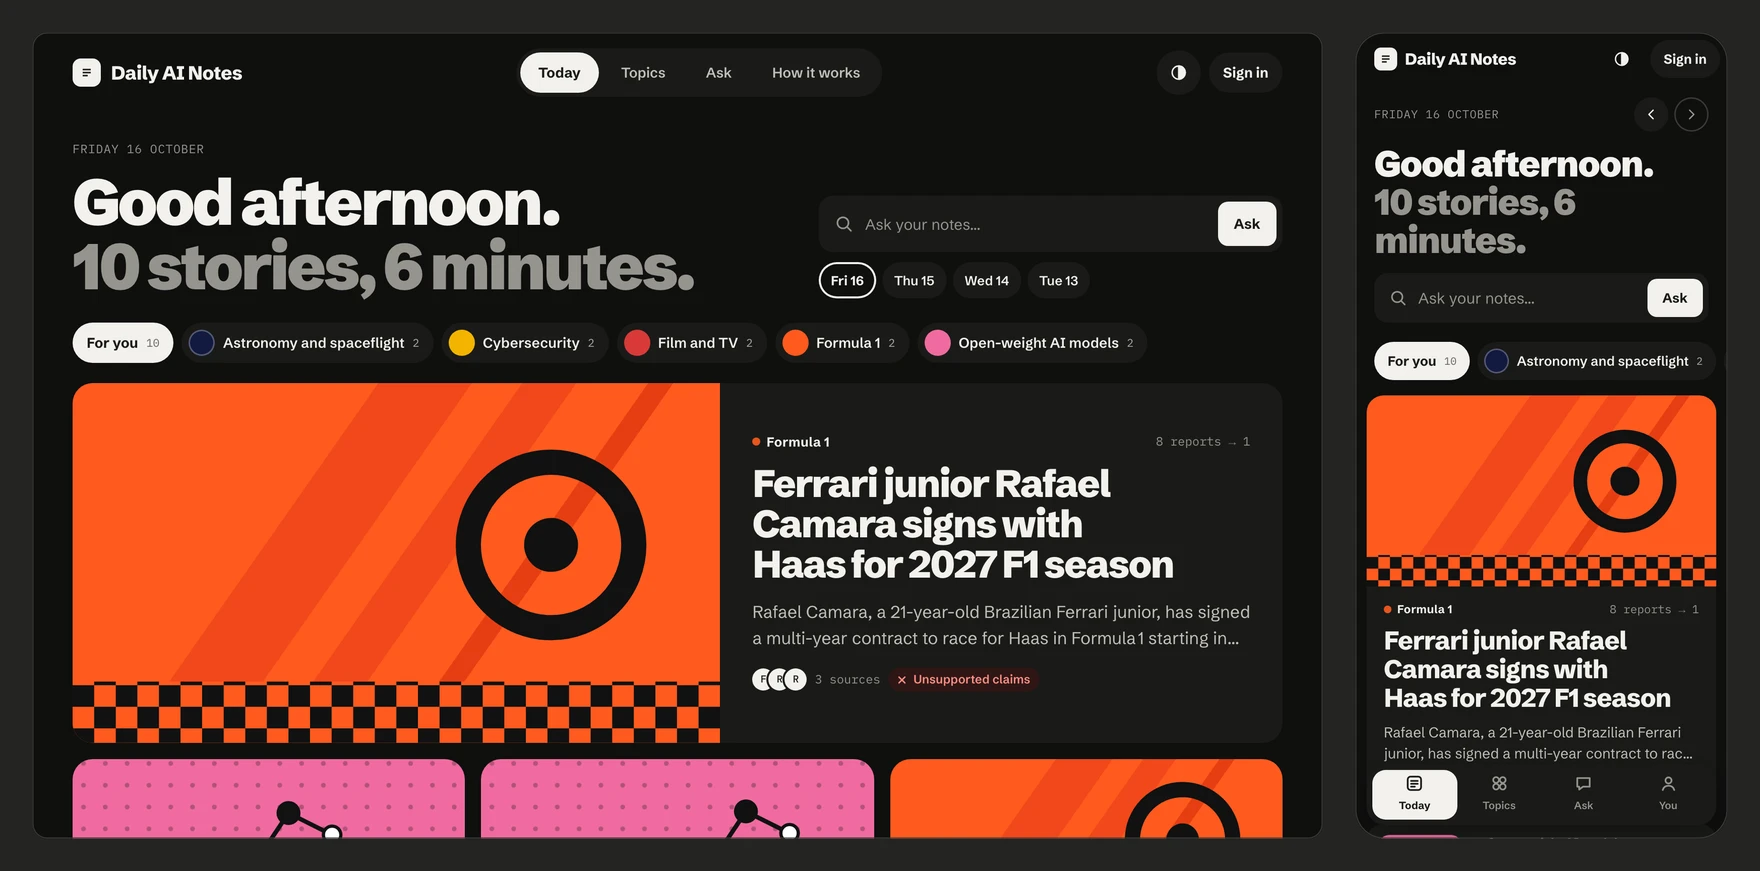
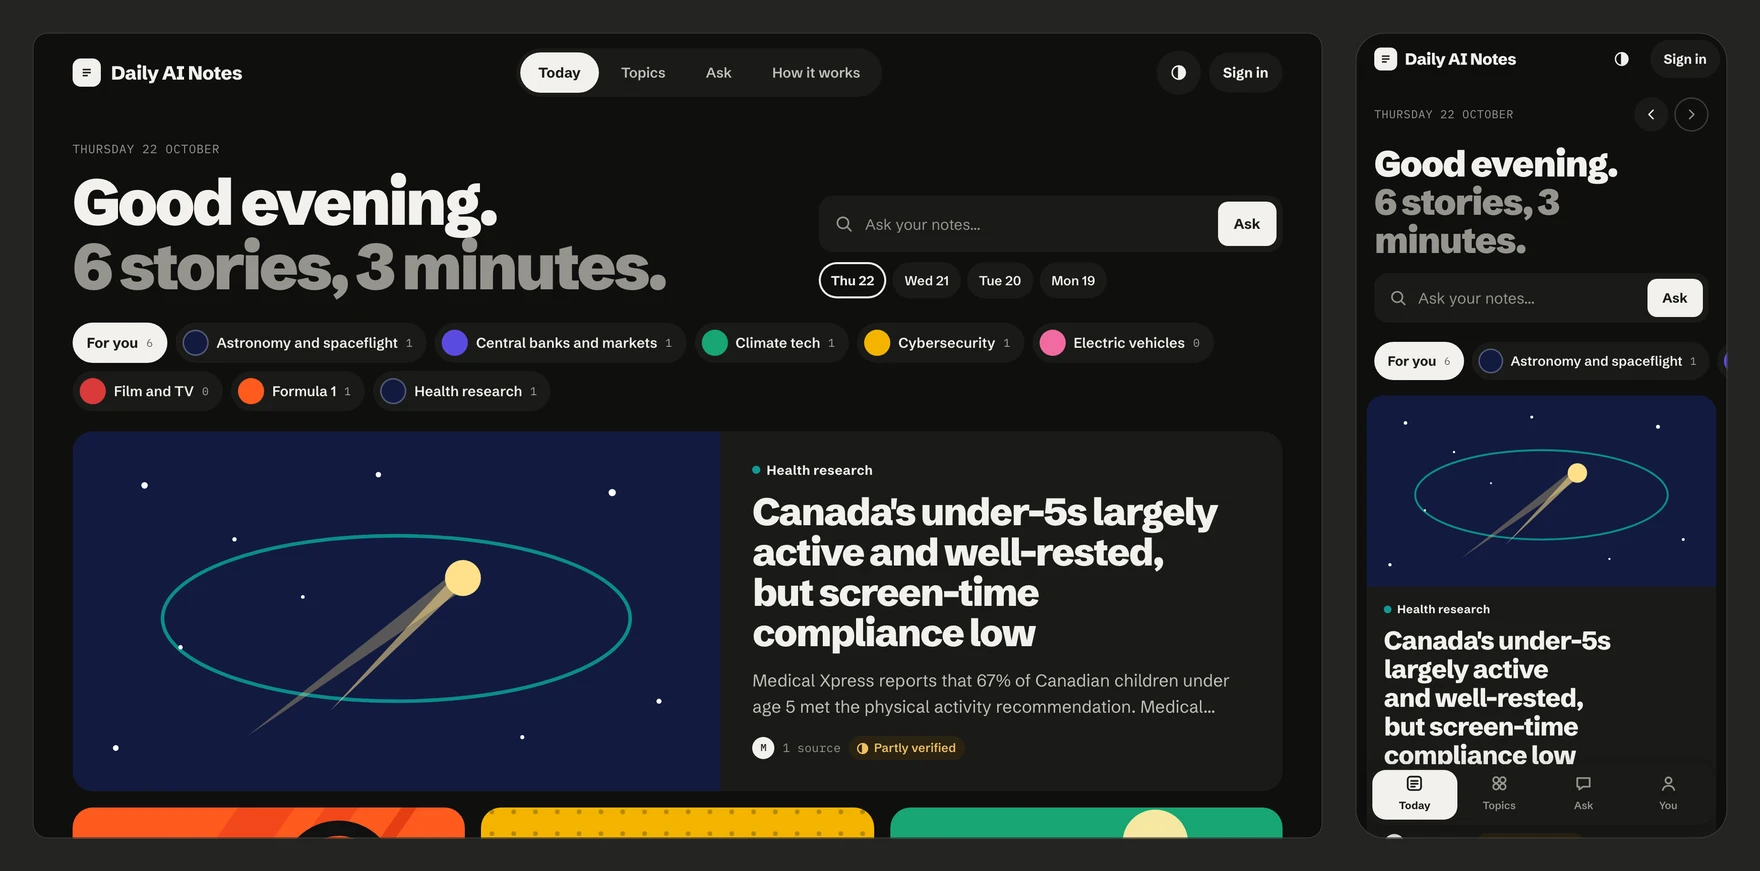
Retake the README's pictures now that notes publish after the checks
The How it works GIF showed the editor's Approve pill; it now ends on Publish. The daily page's top story is today's, an on-topic note marked Partly verified, in place of 16 October's with an Unsupported badge. The GIF's description follows.

Claude-Session: https://claude.ai/code/session_01VgrhfT3v9VqeYD9LTtXhqm

diff --git a/MEMORY.md b/MEMORY.md
@@ -10,7 +10,7 @@ Started 2026-10-12; consolidated 2026-10-13 after M6 (Episodic entries up to the
 
 - **[2026-10-22] Notes and topic plans publish without a review** (ADR 0008, M13): the story graph publishes when its checks finish, a plan with three readable, on-topic feeds goes live, and the editor can withdraw a note at /admin or with `dan review withdraw`. The 48 drafts waiting on 2026-10-22 were published first, with the old code. v0.1.0 is released (tag on c3b1923); all 12 catalog topics are active.
 - **The footer is live** as one row with the logo, How it works, Privacy, Source code with GitHub's mark (a code icon for a source not on github.com) and the author (cb72147, CI run 39034024459; the links from 8b14dbe, CI run 39031878790; the three `SITE_` settings in the server `.env` and in `web/.env` locally, where `astro dev` reads them). **The followed-topics commit waits to deploy** (only followed topics run, ADR 0006) until the owner says which topics to keep running (two accounts follow 6 of 12 on 2026-10-22), or the other topics draft nothing.
-- **dailyainotes.com is live** behind a Cloudflare Tunnel (ADR 0002), public at github.com/erentnr/dailyainotes. Still open: the owner's live checks for M6 to M13, and rotating the Resend and Turnstile keys as a precaution. The README's How it works GIF still shows the editor's Approve pill: retake it with `make readme-media` once ADR 0008 is live.
+- **dailyainotes.com is live** behind a Cloudflare Tunnel (ADR 0002), public at github.com/erentnr/dailyainotes. Still open: the owner's live checks for M6 to M13, and rotating the Resend and Turnstile keys as a precaution. The README's pictures were retaken on 2026-10-22 after ADR 0008 went live.
 - **Next:** 2026-10-18 01:30 UTC is the first night of Scout's model check: review the stories it drops. Refresh the README's pictures once the lead story is on topic. Review the daily cap after a few nights with 12 topics. No offsite backups for now (owner); an uptime check runs every 15 minutes.
 - The owner's local `.env` sets `LLM_VERIFIER` to the old Nemotron fallback (the default changed). The astronomy topic's approved sources include The Guardian's feed; ingestion skips it.
 

diff --git a/README.md b/README.md
@@ -15,7 +15,7 @@ Every night, LangGraph agents collect coverage for each topic in a fixed catalog
 
 <picture>
   <source media="(prefers-color-scheme: dark)" srcset="docs/images/how-it-works-dark.gif">
-  <img alt="One story's night, as the site's How it works page plays it: four reports arrive and three merge into a story, the facts are listed with their source numbers, a note is written with a citation on each line, the citations and claims are checked, the editor approves the note, and an Ask answer links to it." src="docs/images/how-it-works-light.gif">
+  <img alt="One story's night, as the site's How it works page plays it: four reports arrive and three merge into a story, the facts are listed with their source numbers, a note is written with a citation on each line, the citations and claims are checked, the note is published, and an Ask answer links to it." src="docs/images/how-it-works-light.gif">
 </picture>
 
 One story's night, from the site's [How it works](https://dailyainotes.com/how-it-works) page. The pictures come from the live site with `make readme-media`. Underneath, the parts:
